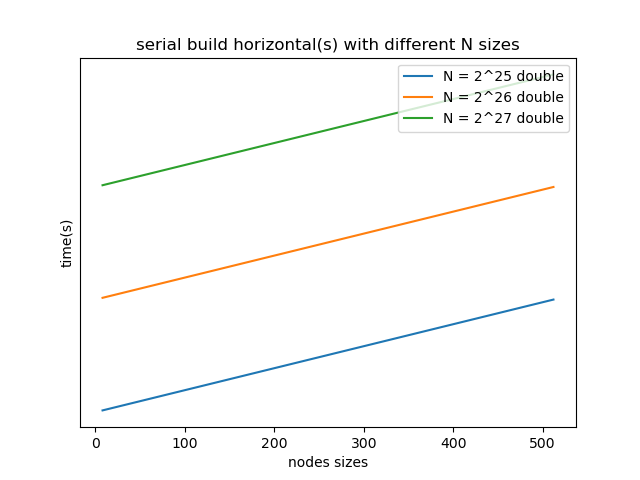
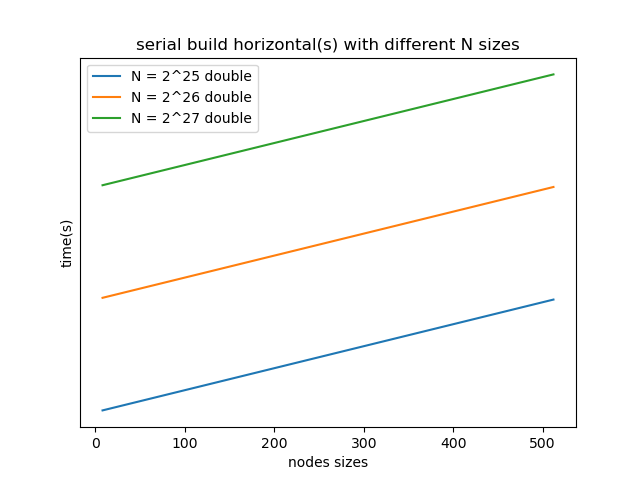
added figures

Changed region(s): [[0.625, 0.125, 0.9062, 0.2812], [0.125, 0.125, 0.4062, 0.2812]]

diff --git a/plot-serial.py b/plot-serial.py
@@ -28,24 +28,53 @@ fileSave = pwd + "/figures/"
 itemSize = [2**25, 2**26, 2**27]
 seqData = []
 sheets = []
-fileNames = []
+figureLabels = []
 
+#get all figure labels, and csv filenames
 for N in itemSize: #3
     for program in programs: #4
-        fileName = filePath + program + "-" + str(N) +  ".csv"
-        sheets = sheets + [fileName]
-        fileNames = fileNames + ["N = 2^" + str(int(math.log(N,2))) + " " + shortPrograms[program]]
+        csvfileName = filePath + program + "-" + str(N) +  ".csv"
+        sheets = sheets + [csvfileName]
+        figureLabels = figureLabels + ["N = 2^" + str(int(math.log(N,2))) + " " + shortPrograms[program]]
 [print(sheet) for sheet in sheets]
+[print(label) for label in figureLabels]
+#read all csv files into data frames
 dfs = [pd.read_csv(sheet, sep=",", index_col=False, names = list(range(0,9))) for sheet in sheets]
 
 fig, ax = plt.subplots()
 cols = dfs[0].keys()
-cols = [int(col) for col in cols]
+cols = [int(col) for col in cols] #list of columns 
 cols = cols[2:7] #excludes the first two columns
 print(cols)
 # some notes taken from https://thispointer.com/pandas-change-data-type-of-single-or-multiple-columns-of-dataframe-in-python/
 nodeSizes = [8*i for i in range(1, 65)]
     
+#Plot same N two builds and 3 different search
+for i in range(len(dfs)):
+    fig, ax = plt.subplots()
+    #dfs[i]['node size'] = pd.to_numeric(dfs[i]['node size']).astype('int')
+    line1, = ax.plot(nodeSizes, dfs[i][cols[0]][1:], label = headerTokens[cols[0]] ) #horizontal build
+    line2, = ax.plot(nodeSizes, dfs[i][cols[1]][1:], label = headerTokens[cols[1]]) #vertical build
+    ax.legend(loc='upper left')
+    plt.xlabel('nodes sizes')
+    plt.ylabel('time(s)')
+    plt.title("serial build comparisons " + figureLabels[i])
+    plt.yticks([],[])
+    ax.set_yticks([], minor=True)
+    plt.savefig(fileSave + "serial-build-compare-"+figureLabels[i])
+    fig, ax = plt.subplots()
+    #dfs[i]['node size'] = pd.to_numeric(dfs[i]['node size']).astype('int')
+    line1, = ax.plot(nodeSizes, dfs[i][cols[2]][1:], label = headerTokens[cols[2]] ) #sequential search
+    line2, = ax.plot(nodeSizes, dfs[i][cols[3]][1:], label = headerTokens[cols[3]]) #binary search
+    line3, = ax.plot(nodeSizes, dfs[i][cols[4]][1:], label = headerTokens[cols[4]]) #simd search
+    ax.legend(loc='upper left')
+    plt.xlabel('nodes sizes')
+    plt.ylabel('time(s)')
+    plt.title("serial search comparisons " + figureLabels[i])
+    plt.yticks([],[])
+    ax.set_yticks([], minor=True)
+    plt.savefig(fileSave + "serial-search-compare-"+figureLabels[i])
+
 # Plot same type different N for int, long, double and float
 print("dfs length:",len(dfs))
 types=['int','long','float','double']
@@ -53,55 +82,53 @@ for i in range(0,4):
     for col in cols:
         j = 0
         fig, ax = plt.subplots()
-        line1, = ax.plot(nodeSizes, dfs[i+j][col][1:], label = fileNames[i+j])
+        line1, = ax.plot(nodeSizes, dfs[i+j][col][1:], label = figureLabels[i+j])
         j = 4
-        line2, = ax.plot(nodeSizes, dfs[i+j][col][1:], label = fileNames[i+j])   
+        line2, = ax.plot(nodeSizes, dfs[i+j][col][1:], label = figureLabels[i+j])   
         j = 8
-        line3, = ax.plot(nodeSizes, dfs[i+j][col][1:], label = fileNames[i+j]) 
-        ax.legend(loc='upper right')
+        line3, = ax.plot(nodeSizes, dfs[i+j][col][1:], label = figureLabels[i+j]) 
+        ax.legend(loc='upper left')
         plt.xlabel('nodes sizes')
         plt.ylabel('time(s)')
         plt.title("serial " + headerTokens[col] + " with different N sizes")
         plt.yticks([],[])
         ax.set_yticks([], minor=True)
-        plt.savefig(fileSave + "serial-" +headerTokens[int(col)] + "-same-type-different-sizes-" + types[i])
+        plt.savefig(fileSave + "serial-" + headerTokens[int(col)] + "-same-type-different-sizes-" + types[i])
 
-#Plot same N different types
-# for N in itemSize:
-#     for col in cols:
-#         print(col)
-#         fig, ax = plt.subplots()
-#         for i in range(4):
-#             #dfs[i]['node size'] = pd.to_numeric(dfs[i]['node size']).astype('int')
-#             line, = ax.plot(nodeSizes, dfs[i][col][1:], label = fileNames[i])
-#         ax.legend(loc='upper right')
-#         plt.xlabel('nodes sizes')
-#         plt.ylabel('time(s)')
-#         plt.title(headerTokens[col] + " of 2^" + str(int(math.log(N,2))))
-#         plt.show()
-#Plot same N two builds and different search
-for N in itemSize:
-    for type in types:
+#Plot same N same columns different types
+for i in range(len(itemSize)):
+    for col in cols:
         fig, ax = plt.subplots()
-        #dfs[i]['node size'] = pd.to_numeric(dfs[i]['node size']).astype('int')
-        line1, = ax.plot(nodeSizes, dfs[i][cols[0]][1:], label = headerTokens[cols[0]] )
-        line2, = ax.plot(nodeSizes, dfs[i][cols[1]][1:], label = headerTokens[cols[1]])
-        ax.legend(loc='upper right')
+        for j in range(4):
+            #dfs[i]['node size'] = pd.to_numeric(dfs[i]['node size']).astype('int')
+            line, = ax.plot(nodeSizes, dfs[i*4+j][col][1:], label = types[j])
+        ax.legend(loc='upper left')
         plt.xlabel('nodes sizes')
         plt.ylabel('time(s)')
-        plt.title( "build a tree" + " of 2^" + str(int(math.log(N,2))) + " " + type)
         plt.yticks([],[])
         ax.set_yticks([], minor=True)
-        plt.show()
-        fig, ax = plt.subplots()
-        #dfs[i]['node size'] = pd.to_numeric(dfs[i]['node size']).astype('int')
-        line1, = ax.plot(nodeSizes, dfs[i][cols[2]][1:], label = headerTokens[cols[2]] )
-        line2, = ax.plot(nodeSizes, dfs[i][cols[3]][1:], label = headerTokens[cols[3]])
-        line3, = ax.plot(nodeSizes, dfs[i][cols[4]][1:], label = headerTokens[cols[4]])
-        ax.legend(loc='upper right')
-        plt.xlabel('nodes sizes')
-        plt.ylabel('time(s)')
-        plt.title( "build a tree" + " of 2^" + str(int(math.log(N,2))) + " " + type)
-        plt.yticks([],[])
-        ax.set_yticks([], minor=True)
-        plt.show()
+        plt.title(headerTokens[col] + " of 2^" + str(int(math.log(itemSize[i],2))))
+        plt.savefig(fileSave + "serial-"+ headerTokens[col] + "-same-N"+ str(itemSize[i]))
+
+#Plot fair comparisons, int and long, float and double
+for col in cols:
+    fig, ax = plt.subplots()
+    line1, = ax.plot(nodeSizes, dfs[5][col][1:], label = types[1]) #long
+    line2, = ax.plot(nodeSizes, dfs[8][col][1:], label = types[0]) #long
+    ax.legend(loc='upper left')
+    plt.xlabel('nodes sizes')
+    plt.ylabel('time(s)')
+    plt.yticks([],[])
+    ax.set_yticks([], minor=True)
+    plt.title(headerTokens[col] + " of 2^27*4 bytes as int and long")
+    plt.savefig(fileSave + "serial-"+ headerTokens[col] + "-equiv-N"+ str(2**27) + "-int-long")
+    fig, ax = plt.subplots()
+    line1, = ax.plot(nodeSizes, dfs[7][col][1:], label = types[3]) #long
+    line2, = ax.plot(nodeSizes, dfs[10][col][1:], label = types[2]) #long
+    ax.legend(loc='upper left')
+    plt.xlabel('nodes sizes')
+    plt.ylabel('time(s)')
+    plt.yticks([],[])
+    ax.set_yticks([], minor=True)
+    plt.title(headerTokens[col] + " of 2^27*4 bytes as float and double")
+    plt.savefig(fileSave + "serial-"+ headerTokens[col] + "-equiv-N"+ str(2**27)+"-float-double")
